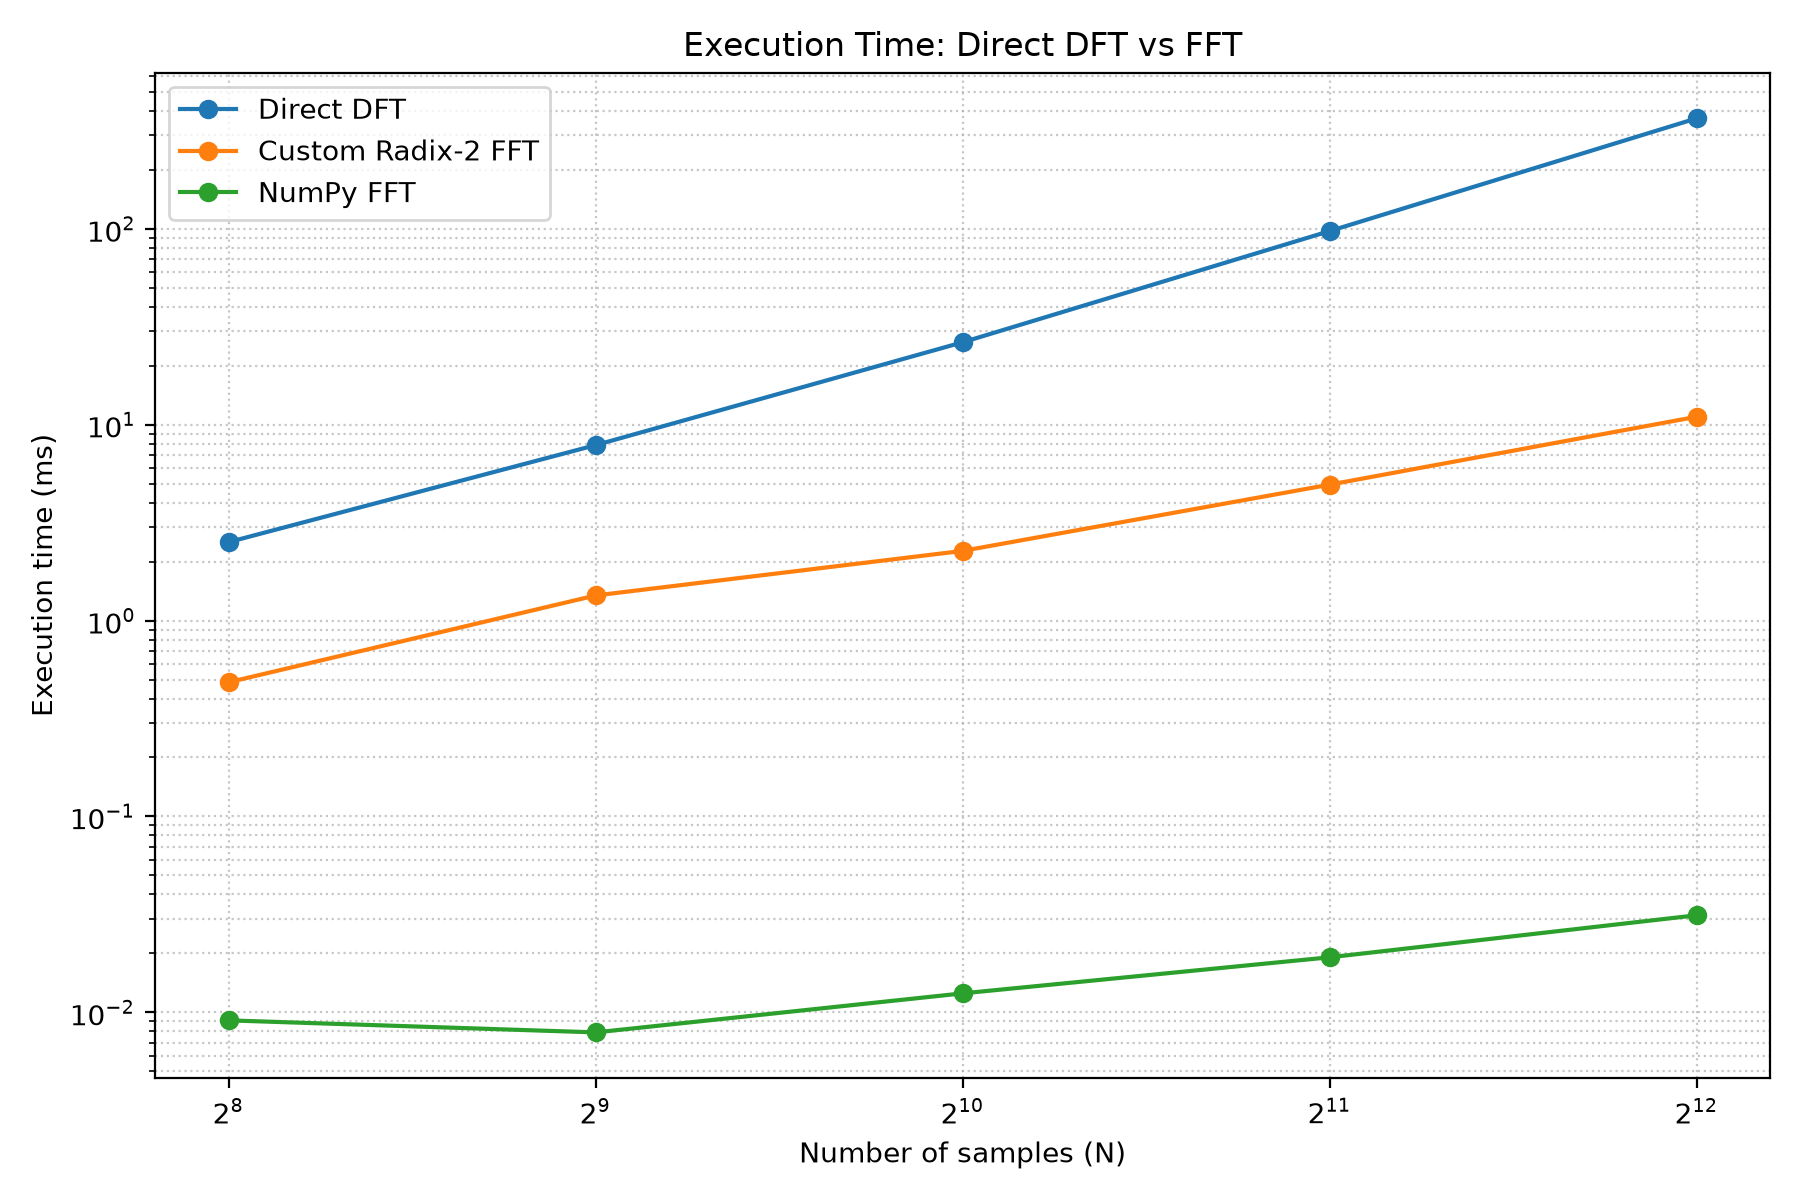
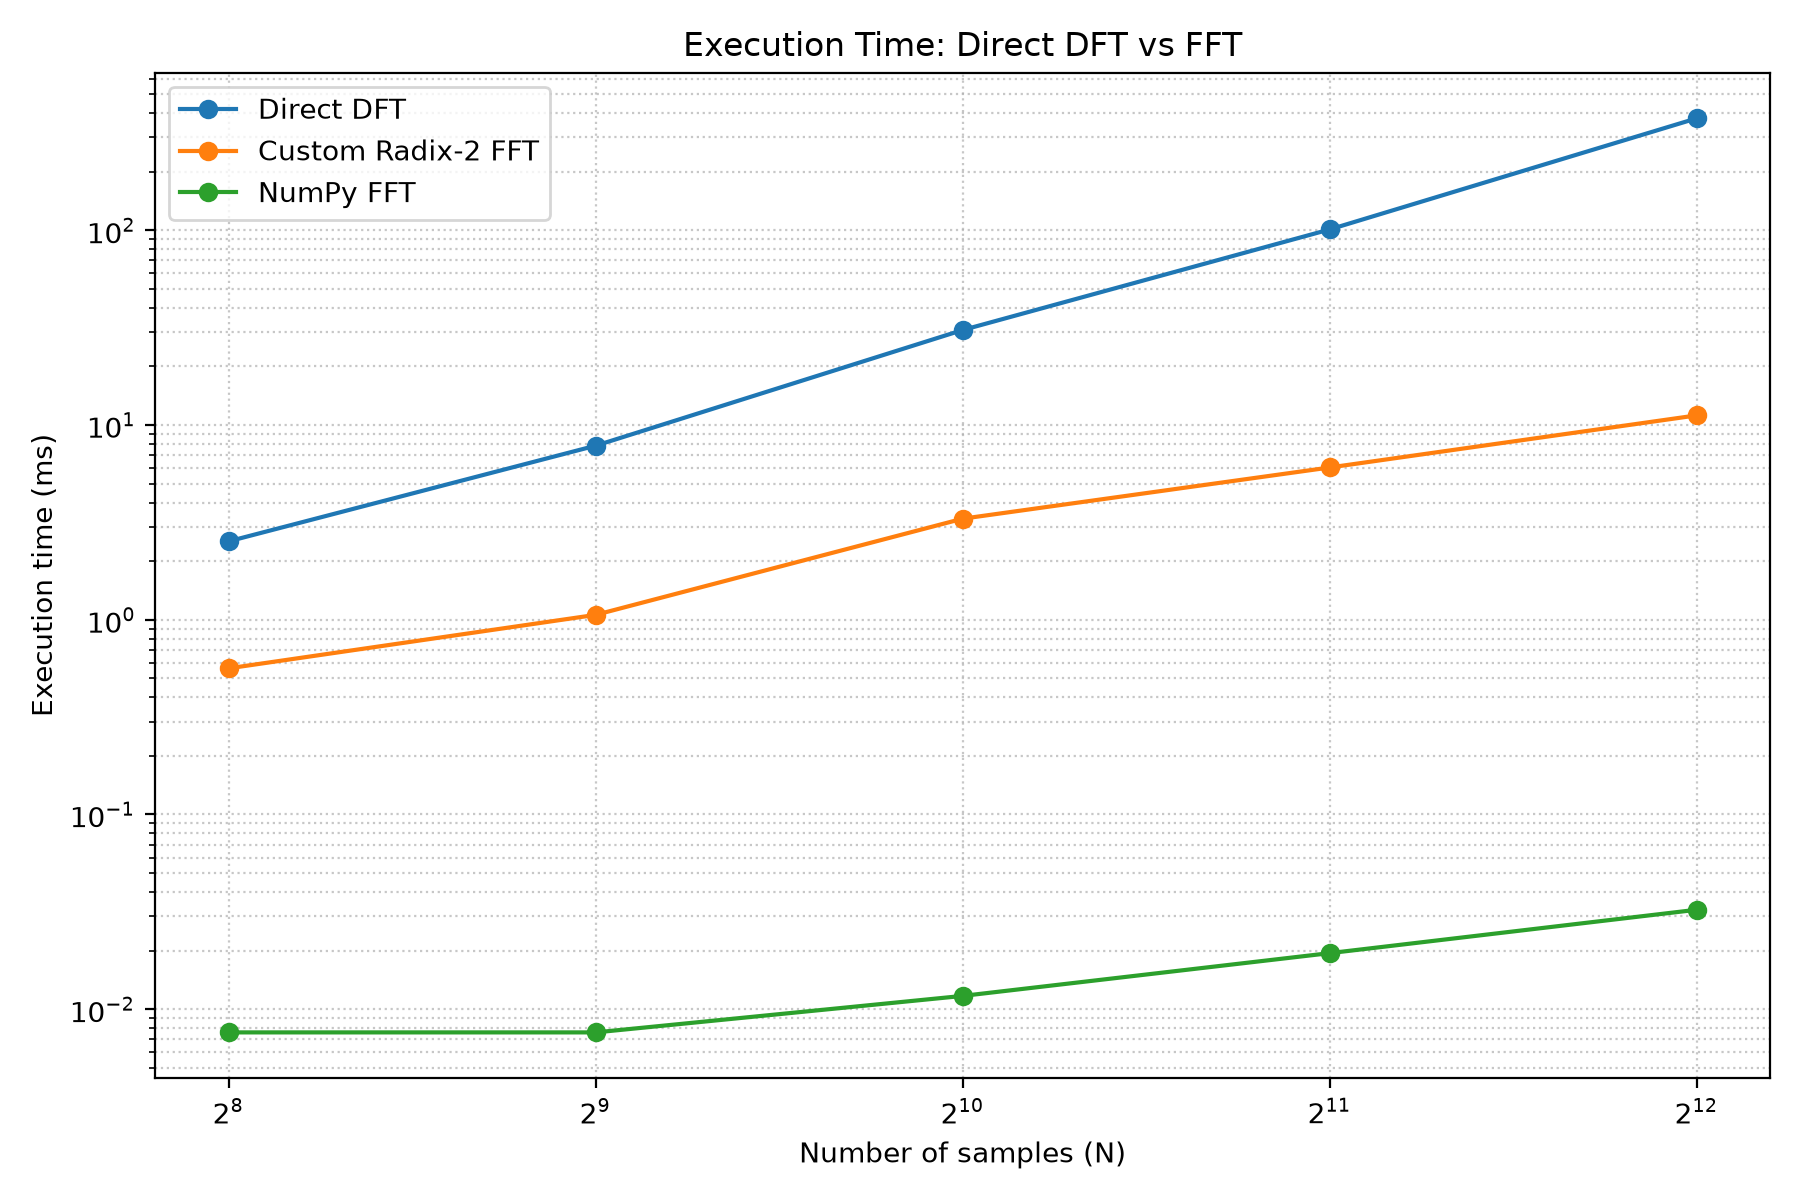
update test and exp

diff --git a/test_analyzer_manual.py b/test_analyzer_manual.py
@@ -1,0 +1,68 @@
+import numpy as np
+
+from src.input.signal_generator import generate_sine
+
+from src.analysis.analyzer import SpectrumAnalyzer
+
+
+# Signal configuration.
+fs = 8000
+frequency = 1000
+amplitude = 1.0
+phase = 0
+duration = 0.128
+
+fft_size = 1024
+
+# Generate input signal.
+x, fs = generate_sine(
+    frequency=frequency,
+    amplitude=amplitude,
+    phase=phase,
+    fs=fs,
+    duration=duration
+)
+
+# Create analyzer.
+analyzer = SpectrumAnalyzer(
+    peak_threshold=0.05,
+    min_peak_distance=3
+)
+
+# Run analysis.
+result = analyzer.analyze(
+    x=x,
+    fs=fs,
+    fft_size=fft_size,
+    window_name="rectangular"
+)
+
+# Display information.
+print("Sampling frequency:", result["fs"])
+
+print("FFT size:", result["fft_size"])
+
+print(
+    "Frequency resolution:",
+    result["frequency_resolution"]
+)
+
+print(
+    "FFT output shape:",
+    result["fft"].shape
+)
+
+print(
+    "Magnitude output shape:",
+    result["magnitude"].shape
+)
+
+print("\nDetected peaks:")
+
+for peak in result["peaks"]:
+
+    print(
+        f"Frequency: {peak['frequency']:.2f} Hz, "
+        f"Magnitude: {peak['magnitude']:.4f}, "
+        f"dB: {peak['db']:.2f}"
+    )

diff --git a/experiments/exp_benchmark.py b/experiments/exp_benchmark.py
@@ -139,6 +139,30 @@ def main() -> None:
     plt.savefig(FIGURE_DIR / "benchmark.png", dpi=200)
     plt.close()
 
+# Execution-time chart. Log scales make the three curves easier to compare.
+    plt.figure(figsize=(9, 6))
+    plt.plot(
+        sizes,
+        [row["DFT_time_ms"] for row in benchmark_rows],
+        marker="o",
+        label="Direct DFT",
+    )
+    plt.plot(
+        sizes,
+        [row["Custom_FFT_time_ms"] for row in benchmark_rows],
+        marker="o",
+        label="Custom Radix-2 FFT",
+    )
+
+    plt.xlabel("Number of samples (N)")
+    plt.ylabel("Execution time (ms)")
+    plt.title("Execution Time: Direct DFT vs Custom FFT")
+    plt.grid(True, which="both", linestyle=":", alpha=0.7)
+    plt.legend()
+    plt.tight_layout()
+    plt.savefig(FIGURE_DIR / "benchmark2.png", dpi=200)
+    plt.close()    
+
     # Accuracy chart. The floor is only for plotting on a logarithmic axis;
     # CSV files retain the actual measured error values.
     dft_fft_errors = np.array(

diff --git a/tests/test_integration.py b/tests/test_integration.py
@@ -1421,6 +1421,7 @@ def test_t07_wav_integration():
         # -------------------------------------------------
         # Step 5: Print test results
         # -------------------------------------------------
+        print("\n========== T07: WAV INTEGRATION ==========")
 
         print(f"Sampling Frequency: {fs} Hz")
         print(f"Number of Samples: {len(x)}")
